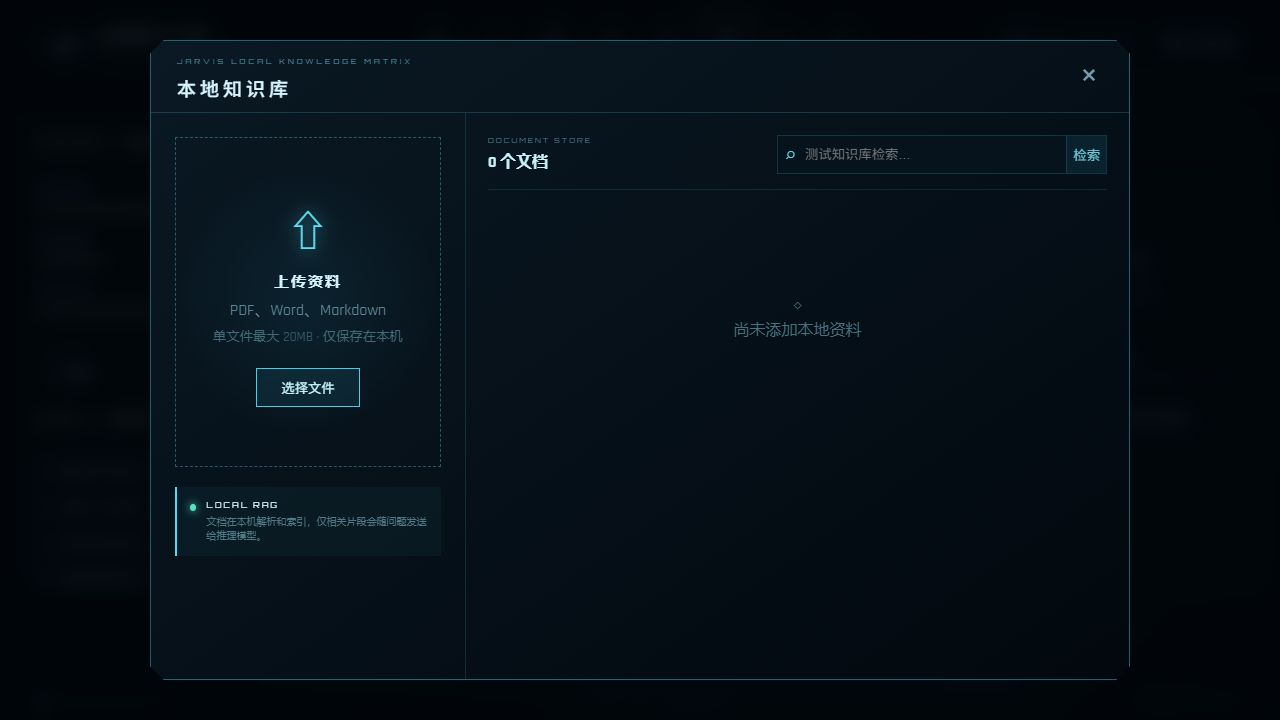
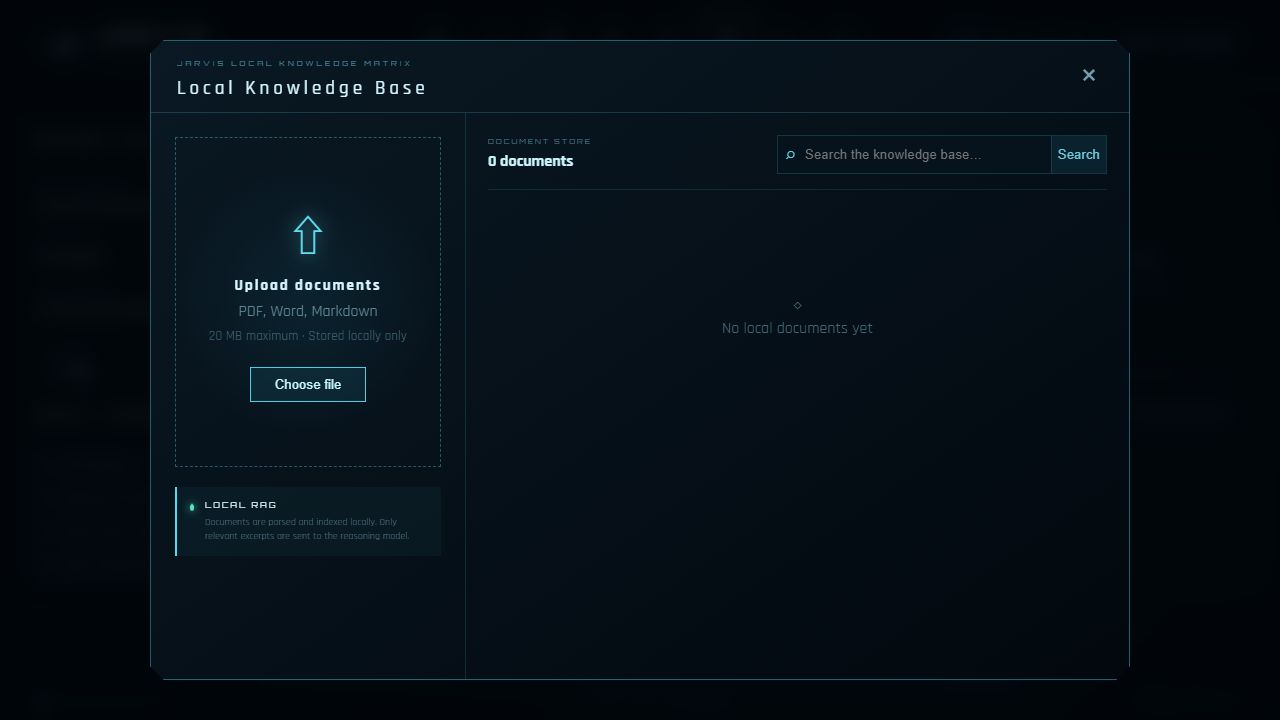
docs: standardize README screenshots in English

diff --git a/src/main.js b/src/main.js
@@ -302,7 +302,7 @@ async function loadSchedules(){try{const [list,brief]=await Promise.all([fetch('
 function renderBrief(data){const summary=data.summary||{};$('#todayBrief').innerHTML=[['TODAY','今日任务',summary.today||0],['OVERDUE','已经逾期',summary.overdue||0,'alert'],['REMAIN','待办总数',summary.remaining||0],['COMPLETE','累计完成',summary.completed||0]].map(([code,label,value,kind])=>`<div class="brief-card ${kind||''}"><small>${code} // ${label}</small><b>${value}</b></div>`).join('')}
 function filteredSchedules(){const now=new Date(),start=new Date(now.getFullYear(),now.getMonth(),now.getDate()),end=new Date(start);end.setDate(end.getDate()+1);if(scheduleFilter==='active')return scheduleItems.filter(x=>!x.completed);if(scheduleFilter==='today')return scheduleItems.filter(x=>x.dueAt&&new Date(x.dueAt)>=start&&new Date(x.dueAt)<end);return scheduleItems}
 function renderSchedules(){const list=$('#scheduleList'),items=filteredSchedules();list.innerHTML='';if(!items.length){list.innerHTML='<div class="schedule-empty">◇<br>当前视图没有任务</div>';return}items.forEach(item=>{const row=document.createElement('div');row.className=`schedule-item ${item.priority||'normal'} ${item.completed?'done':''}`;const due=item.dueAt?new Date(item.dueAt):null,delta=due?due-Date.now():Infinity,dueClass=delta<0&&!item.completed?'overdue':delta<3600000&&!item.completed?'soon':'';row.innerHTML=`<button class="schedule-check">${item.completed?'✓':''}</button><p><b></b><small><em class="schedule-due ${dueClass}"></em>${item.repeat!=='none'?`<span class="schedule-repeat">${repeatNames[item.repeat]||item.repeat}</span>`:''}</small></p><div class="schedule-actions"><button class="schedule-delete" title="删除">×</button></div>`;row.querySelector('b').textContent=item.title;row.querySelector('.schedule-due').textContent=due?due.toLocaleString(locale(),{month:'2-digit',day:'2-digit',hour:'2-digit',minute:'2-digit'}):'无截止时间';row.querySelector('.schedule-check').onclick=()=>updateSchedule(item.id,{completed:!item.completed});row.querySelector('.schedule-delete').onclick=()=>deleteSchedule(item.id);list.append(row)})}
-function renderHudSchedules(){const active=scheduleItems.filter(x=>!x.completed).slice(0,5),box=$('#tasks');box.innerHTML='';if(!active.length){box.innerHTML='<div class="empty"><span>◇</span><b>暂无运行任务</b><small>用语音或文字下达指令</small></div>';return}active.forEach(item=>{const row=document.createElement('div');row.className='task';row.innerHTML='<i></i><div><b></b><small></small></div><span>○</span>';row.querySelector('b').textContent=item.title;row.querySelector('small').textContent=item.dueAt?new Date(item.dueAt).toLocaleString(locale(),{month:'2-digit',day:'2-digit',hour:'2-digit',minute:'2-digit'}):'待办';box.append(row)})}
+function renderHudSchedules(){const active=scheduleItems.filter(x=>!x.completed).slice(0,5),box=$('#tasks');box.innerHTML='';if(!active.length){box.innerHTML=`<div class="empty"><span>◇</span><b>${tr('暂无运行任务')}</b><small>${tr('用语音或文字下达指令')}</small></div>`;return}active.forEach(item=>{const row=document.createElement('div');row.className='task';row.innerHTML='<i></i><div><b></b><small></small></div><span>○</span>';row.querySelector('b').textContent=item.title;row.querySelector('small').textContent=item.dueAt?new Date(item.dueAt).toLocaleString(locale(),{month:'2-digit',day:'2-digit',hour:'2-digit',minute:'2-digit'}):tr('待办');box.append(row)})}
 async function createSchedule(payload){const response=await fetch('/api/schedules',{method:'POST',headers:{'Content-Type':'application/json'},body:JSON.stringify(payload)}),data=await response.json();if(!response.ok)throw new Error(data.error||'创建任务失败');await loadSchedules();return data.item}
 async function updateSchedule(id,payload){const response=await fetch(`/api/schedules/${id}`,{method:'PUT',headers:{'Content-Type':'application/json'},body:JSON.stringify(payload)}),data=await response.json();if(!response.ok)return showToast(data.error);await loadSchedules()}
 async function deleteSchedule(id){if(!confirm('删除这个任务吗？'))return;const response=await fetch(`/api/schedules/${id}`,{method:'DELETE'});if(!response.ok)return showToast('删除失败');await loadSchedules()}
@@ -348,7 +348,7 @@ async function relevantMemoryContext(query){
 
 function openKnowledge(){const modal=$('#knowledgeModal');modal.classList.add('open');modal.setAttribute('aria-hidden','false');loadKnowledge()}
 function closeKnowledge(){const modal=$('#knowledgeModal');modal.classList.remove('open');modal.setAttribute('aria-hidden','true');$('#knowledgeResults').classList.remove('open')}
-async function loadKnowledge(){try{const data=await(await fetch('/api/knowledge')).json(),list=$('#knowledgeList');$('#knowledgeCount').textContent=data.total||0;list.innerHTML='';if(!data.items?.length){list.innerHTML='<div class="knowledge-empty">◇<br>尚未添加本地资料</div>';return}data.items.forEach(item=>{const row=document.createElement('div');row.className='knowledge-doc';row.innerHTML='<i></i><p><b></b><small></small></p><button title="删除文档">×</button>';row.querySelector('i').textContent=item.type.toUpperCase();row.querySelector('b').textContent=item.name;row.querySelector('small').textContent=`${item.chunkCount} 个片段 · ${(item.size/1024).toFixed(1)} KB · ${new Date(item.createdAt).toLocaleDateString(locale())}`;row.querySelector('button').onclick=()=>deleteKnowledge(item.id);list.append(row)})}catch(error){showToast(error.message||'知识库读取失败')}}
+async function loadKnowledge(){try{const data=await(await fetch('/api/knowledge')).json(),list=$('#knowledgeList');$('#knowledgeCount').textContent=data.total||0;list.innerHTML='';if(!data.items?.length){list.innerHTML=`<div class="knowledge-empty">◇<br>${tr('尚未添加本地资料')}</div>`;return}data.items.forEach(item=>{const row=document.createElement('div');row.className='knowledge-doc';row.innerHTML=`<i></i><p><b></b><small></small></p><button title="${tr('删除文档')}">×</button>`;row.querySelector('i').textContent=item.type.toUpperCase();row.querySelector('b').textContent=item.name;row.querySelector('small').textContent=`${item.chunkCount} ${getLanguage()==='en'?'chunks':'个片段'} · ${(item.size/1024).toFixed(1)} KB · ${new Date(item.createdAt).toLocaleDateString(locale())}`;row.querySelector('button').onclick=()=>deleteKnowledge(item.id);list.append(row)})}catch(error){showToast(error.message||'知识库读取失败')}}
 async function uploadKnowledge(file){if(!file)return;const ext=file.name.toLowerCase().split('.').pop();if(!['pdf','docx','md','markdown'].includes(ext))return showToast('仅支持 PDF、DOCX 和 Markdown');const drop=$('#knowledgeDrop'),status=document.createElement('div');status.className='knowledge-progress';status.textContent=`正在解析 ${file.name}…`;drop.append(status);try{const form=new FormData();form.append('file',file);const response=await fetch('/api/knowledge/upload',{method:'POST',body:form}),data=await response.json();if(!response.ok)throw new Error(data.error);showToast(`已建立索引：${data.item.name}`);await loadKnowledge()}catch(error){showToast(error.message)}finally{status.remove();$('#knowledgeFile').value=''}}
 async function deleteKnowledge(id){if(!confirm('删除这份资料及其本地索引吗？'))return;const response=await fetch(`/api/knowledge/${id}`,{method:'DELETE'});if(!response.ok)return showToast('删除失败');await loadKnowledge()}
 async function searchKnowledge(query,limit=5){if(!query.trim())return[];try{const data=await(await fetch(`/api/knowledge/search?query=${encodeURIComponent(query)}&limit=${limit}`)).json();return data.matches||[]}catch{return[]}}
@@ -356,7 +356,7 @@ async function testKnowledgeSearch(){const query=$('#knowledgeSearch').value.tri
 async function relevantKnowledgeContext(query){const matches=await searchKnowledge(query,5);if(!matches.length)return null;return `以下内容来自用户的本地知识库。仅在片段确实支持结论时使用，并在对应句子后严格标注 [来源: 文件名#片段编号]；不要编造未提供的来源。\n\n${matches.map(hit=>`[来源: ${hit.source}#片段${hit.chunk}]\n${hit.content}`).join('\n\n')}`}
 
 async function loadSettings(){
-  try{const data=await(await fetch('/api/settings')).json();appSettings={...appSettings,...data.settings};$('#settingProvider').value=appSettings.provider||'deepseek';$('#settingModel').value=appSettings.model;$('#settingApiBaseUrl').value=appSettings.apiBaseUrl||'';$('#settingProviderApiKey').value='';$('#settingMemoryEnabled').checked=appSettings.memoryEnabled;$('#settingAutoMemory').checked=appSettings.autoMemory;$('#settingMemoryLimit').value=appSettings.memoryLimit;$('#settingMemoryContext').value=appSettings.memoryContextLimit;$('#settingTtsEnabled').checked=appSettings.ttsEnabled;$('#settingVoice').value=appSettings.ttsVoice;$('#settingRate').value=appSettings.ttsRate;$('#settingPitch').value=appSettings.ttsPitch;$('#settingRobot').value=appSettings.robotIntensity;$('#settingLanguage').value=getLanguagePreference();$('#apiKeyState').textContent=data.apiKeyConfigured?'API KEY 已配置':'API KEY 未配置';updateRangeLabels();}
+  try{const data=await(await fetch('/api/settings')).json();appSettings={...appSettings,...data.settings};$('#settingProvider').value=appSettings.provider||'deepseek';$('#settingModel').value=appSettings.model;$('#settingApiBaseUrl').value=appSettings.apiBaseUrl||'';$('#settingProviderApiKey').value='';$('#settingMemoryEnabled').checked=appSettings.memoryEnabled;$('#settingAutoMemory').checked=appSettings.autoMemory;$('#settingMemoryLimit').value=appSettings.memoryLimit;$('#settingMemoryContext').value=appSettings.memoryContextLimit;$('#settingTtsEnabled').checked=appSettings.ttsEnabled;$('#settingVoice').value=appSettings.ttsVoice;$('#settingRate').value=appSettings.ttsRate;$('#settingPitch').value=appSettings.ttsPitch;$('#settingRobot').value=appSettings.robotIntensity;$('#settingLanguage').value=getLanguagePreference();$('#apiKeyState').textContent=tr(data.apiKeyConfigured?'API KEY 已配置':'API KEY 未配置');updateRangeLabels();}
   catch{$('#settingsStatus').textContent=tr('设置读取失败')}
 }
 

diff --git a/src/i18n.js b/src/i18n.js
@@ -5,6 +5,67 @@ const messages = {
   }
 };
 
+// Complete translations for the newer settings, workspace, schedule, and
+// knowledge-center surfaces. Keeping these keys here also makes hidden modal
+// content localize correctly before it is opened.
+Object.assign(messages.en, {
+  'MODEL PROVIDER // 推理核心': 'MODEL PROVIDER // REASONING CORE',
+  '模型提供商': 'Model provider',
+  '模型名称': 'Model name',
+  '留空表示保持现有密钥': 'Leave blank to keep the current key',
+  '本地模型': 'Local model',
+  'Ollama · 本地模型': 'Ollama · Local model',
+  'API KEY 已配置': 'API KEY CONFIGURED',
+  'API KEY 未配置': 'API KEY NOT CONFIGURED',
+  '密钥只保存在本地服务器环境中，设置界面不会显示密钥内容。': 'The key is stored only in the local server environment and is never displayed here.',
+  '暂无运行任务': 'No active missions',
+  '用语音或文字下达指令': 'Issue a command by voice or text',
+  '本地知识库': 'Local Knowledge Base',
+  '关闭': 'Close',
+  '上传资料': 'Upload documents',
+  'PDF、Word、Markdown': 'PDF, Word, Markdown',
+  '单文件最大 20MB · 仅保存在本机': '20 MB maximum · Stored locally only',
+  '选择文件': 'Choose file',
+  '文档在本机解析和索引，仅相关片段会随问题发送给推理模型。': 'Documents are parsed and indexed locally. Only relevant excerpts are sent to the reasoning model.',
+  '个文档': ' documents',
+  '测试知识库检索…': 'Search the knowledge base…',
+  '检索': 'Search',
+  '尚未添加本地资料': 'No local documents yet',
+  '删除文档': 'Delete document',
+  '对话与工作区': 'Conversations & Workspaces',
+  '搜索标题或对话内容…': 'Search titles or conversation content…',
+  '＋ 新建会话': '＋ New session',
+  '保存当前会话': 'Save current session',
+  '导出 Markdown': 'Export Markdown',
+  '工作区标题': 'Workspace title',
+  '为这次工作命名': 'Name this workspace',
+  '临时会话': 'Temporary session',
+  '连续工作模式': 'Continuous work mode',
+  '任务与日程中心': 'Tasks & Schedule Center',
+  '任务名称': 'Task name',
+  '例如：提交周报': 'For example: Submit weekly report',
+  '日期与时间': 'Date & time',
+  '重复': 'Repeat',
+  '不重复': 'No repeat',
+  '每天': 'Daily',
+  '每周': 'Weekly',
+  '每月': 'Monthly',
+  '提前提醒': 'Reminder',
+  '准时': 'At due time',
+  '分钟': 'minutes',
+  '小时': 'hour',
+  '天': 'day',
+  '优先级': 'Priority',
+  '普通': 'Normal',
+  '高': 'High',
+  '低': 'Low',
+  '备注': 'Notes',
+  '加入任务中心': 'Add to task center',
+  '待办': 'To-do',
+  '今天': 'Today',
+  '全部': 'All'
+});
+
 const supported = ['zh-CN', 'en'];
 const browserLanguage = () => (navigator.languages || [navigator.language]).some(value => value?.toLowerCase().startsWith('zh')) ? 'zh-CN' : 'en';
 let preference = localStorage.getItem('jarvis-language') || 'auto';
